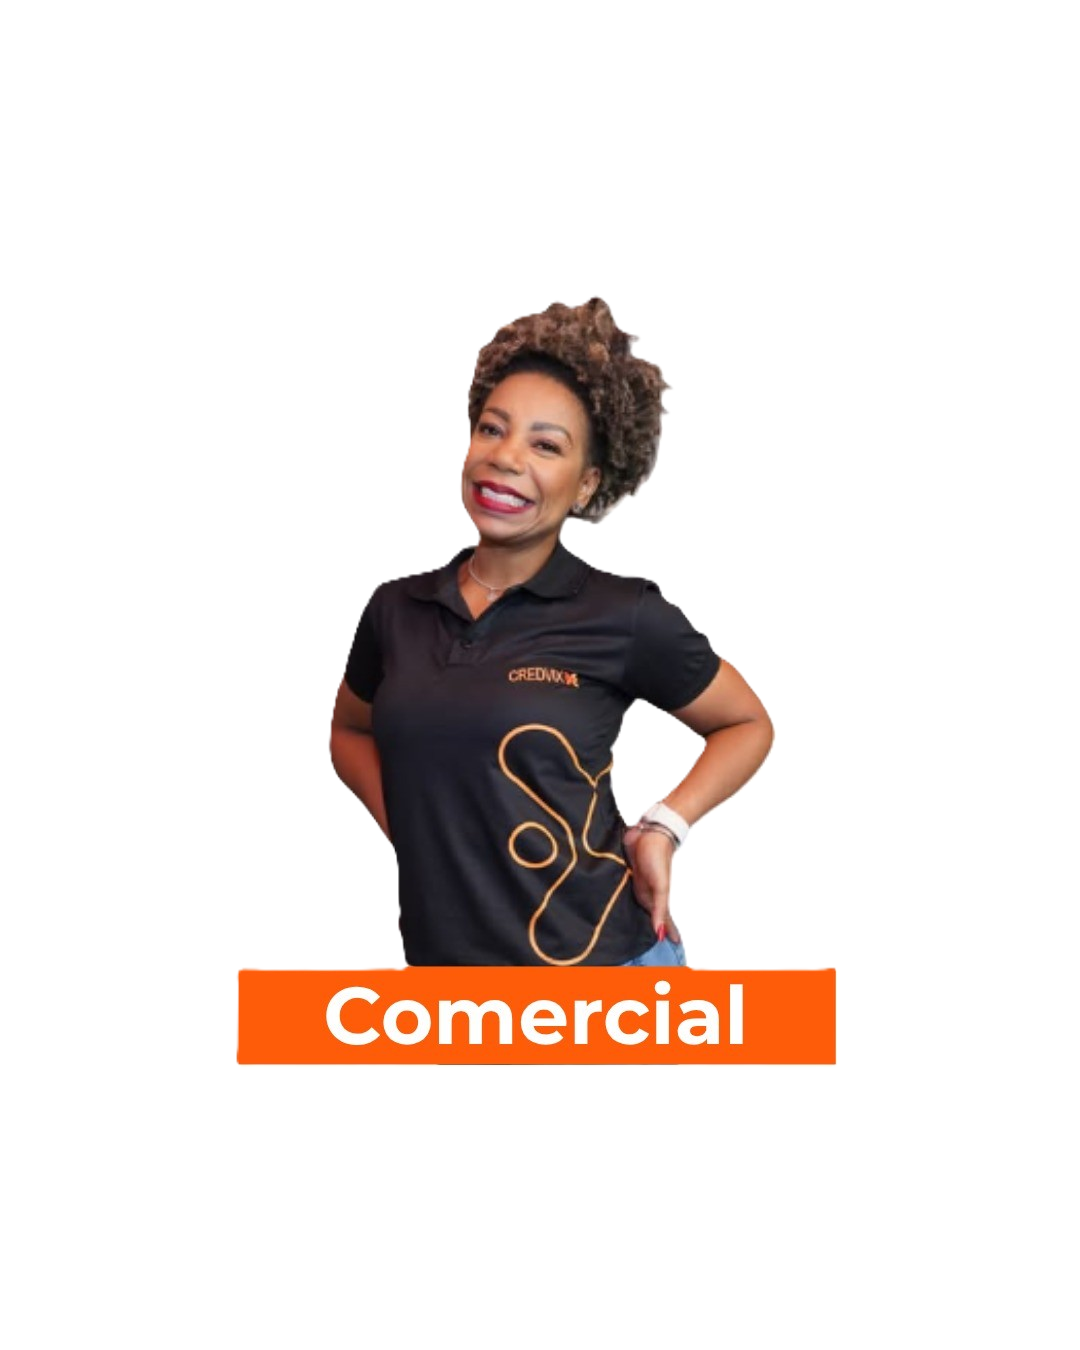
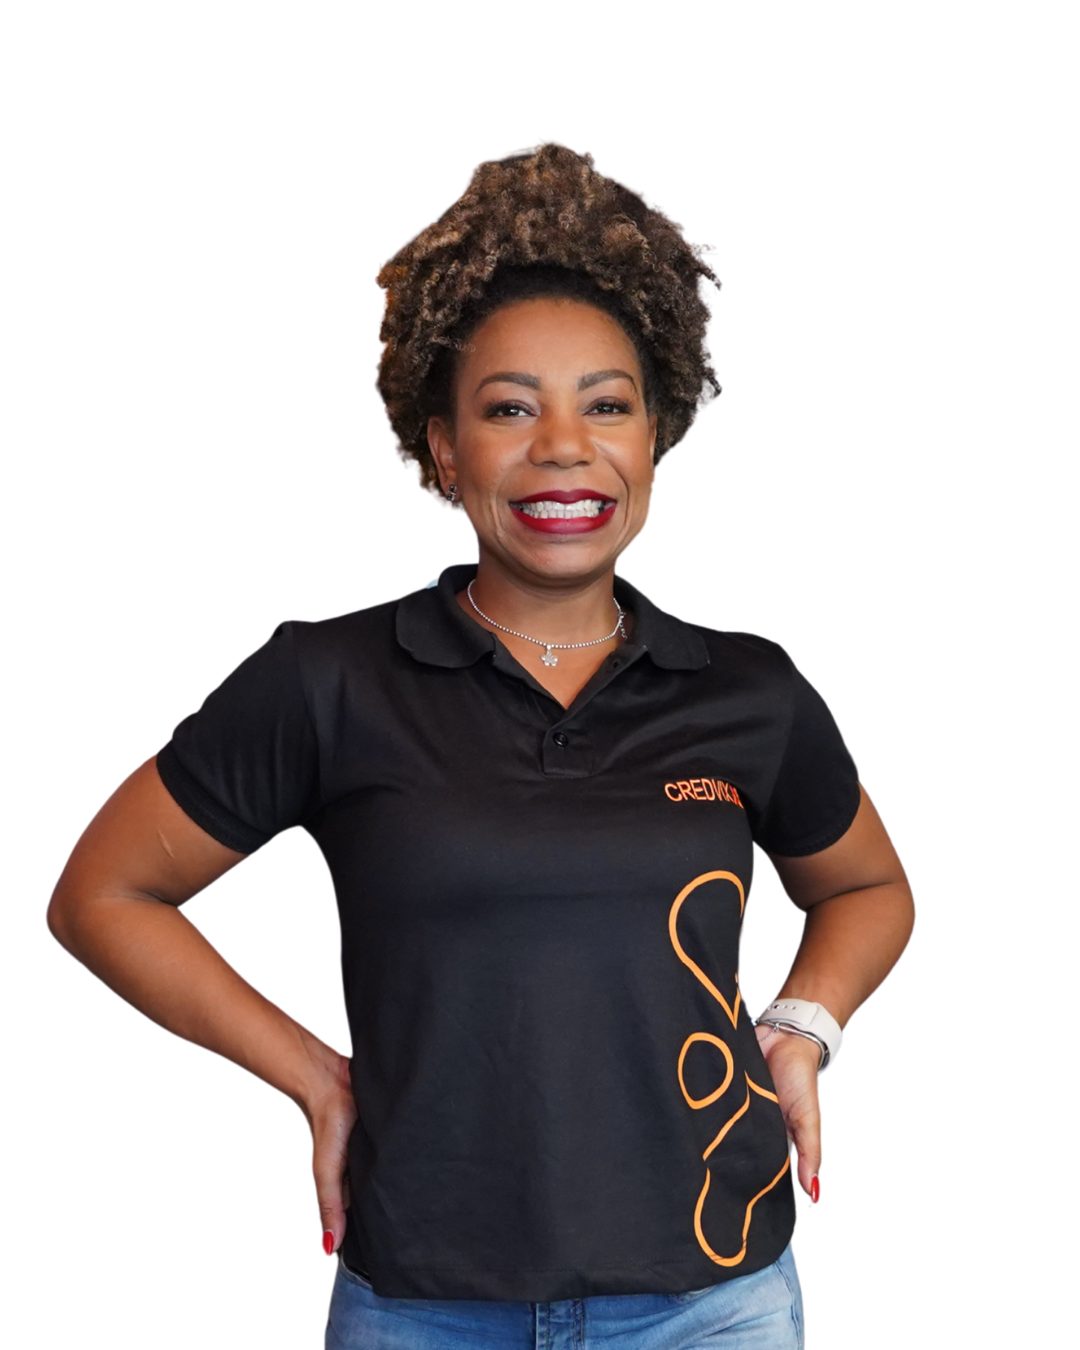
atualização das imagens do nossa equipe

diff --git a/vagas.html b/vagas.html
@@ -153,8 +153,8 @@
 
                         <div class="category-card animate-on-scroll">
                             <div class="relative">
-                                <img src="https://via.placeholder.com/400x400.png/0000FF/FFFFFF?text=Motorista"
-                                    alt="Vaga de Motorista" class="category-image">
+                                <img src="/img/supervisor.png"
+                                    alt="Vaga de supervisor" class="category-image">
                                 <div class="category-title-bar">
                                     <h3 class="text-xl font-bold">Supervisor de Vendas</h3>
                                 </div>
@@ -167,8 +167,8 @@
 
                         <div class="category-card animate-on-scroll">
                             <div class="relative">
-                                <img src="https://via.placeholder.com/400x400.png/28A745/FFFFFF?text=Operacional"
-                                    alt="Vaga Operacional" class="category-image">
+                                <img src="/img/consultor.png"
+                                    alt="Vaga de consultor" class="category-image">
                                 <div class="category-title-bar">
                                     <h3 class="text-xl font-bold">Consultor de Vendas</h3>
                                 </div>

diff --git a/style.css b/style.css
@@ -486,7 +486,7 @@ select {
 
 .category-image {
     width: 100%;
-    height: 250px;
+    height: 370px;
     object-fit: cover;
     display: block;
 }
@@ -496,7 +496,7 @@ select {
     bottom: 0;
     left: 0;
     width: 100%;
-    background-color: var(--primary-color, #F37021); /* Cor de fallback */
+    background-color: var(--primary-color, #F37021);
     color: white;
     padding: 0.75rem 1rem;
 }
